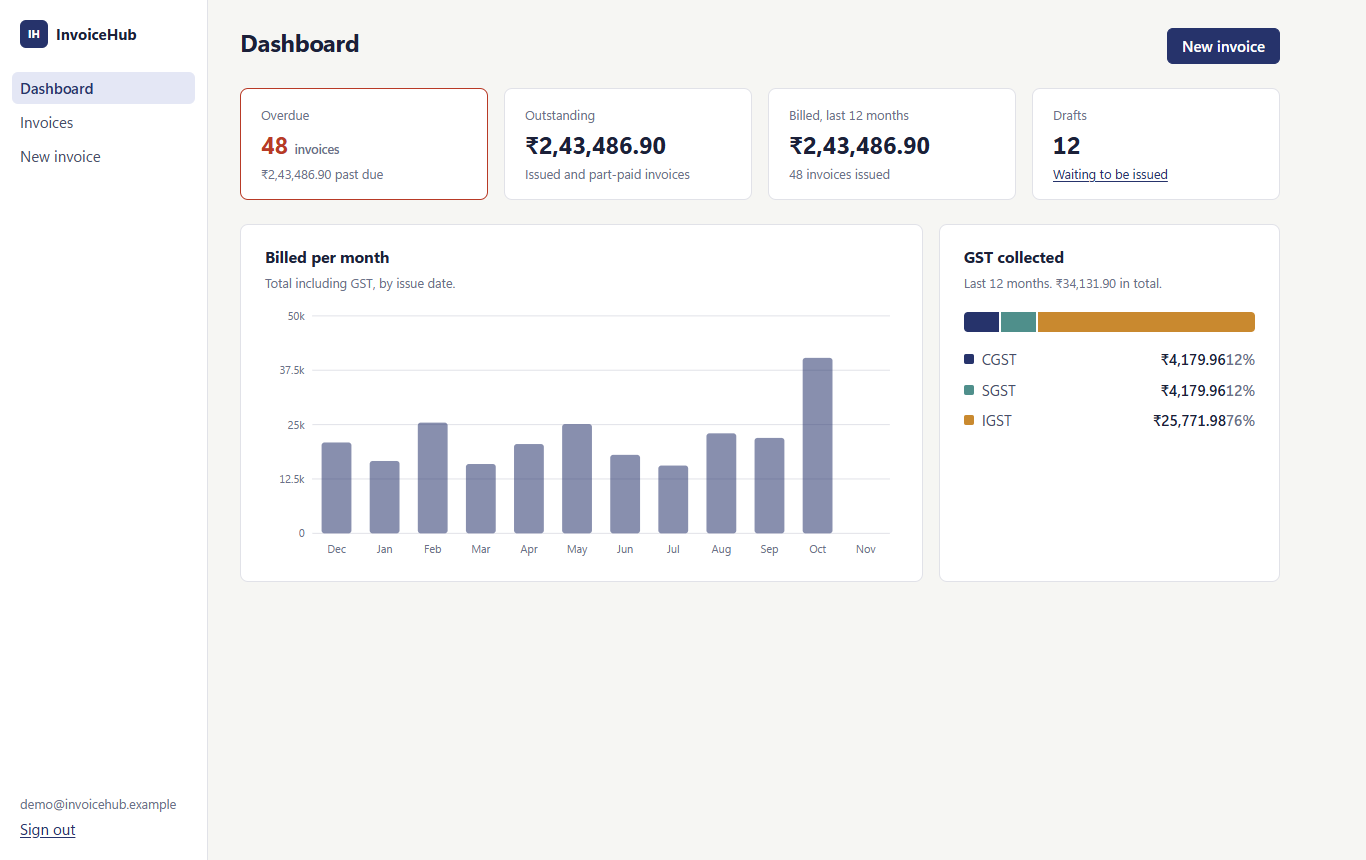
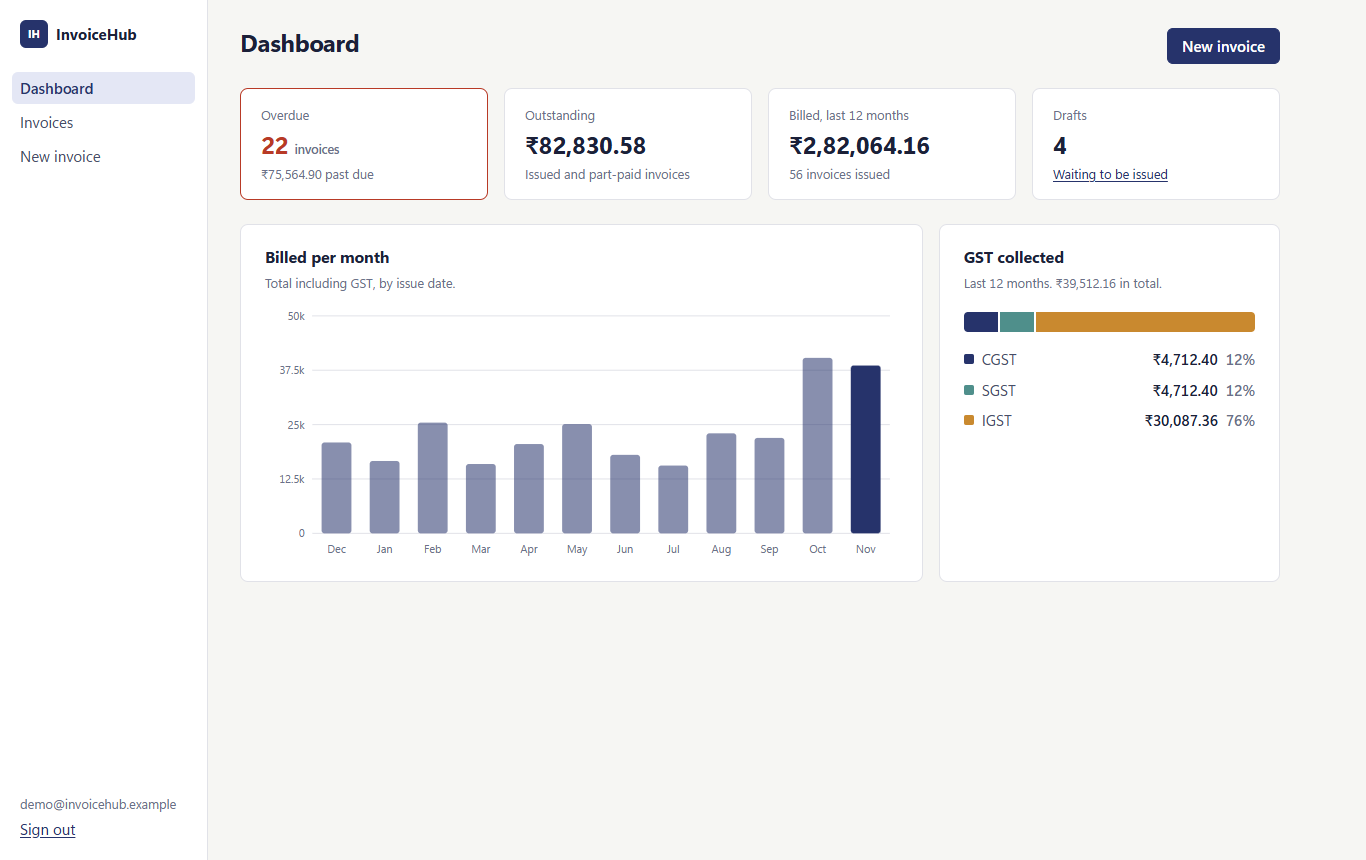
Seed payments via signed webhook, smoke test, web image CI, README UI section, fresh screenshots

diff --git a/tests/InvoiceHub.E2E/WebSmokeTests.cs b/tests/InvoiceHub.E2E/WebSmokeTests.cs
@@ -1,0 +1,55 @@
+using Microsoft.Playwright;
+
+namespace InvoiceHub.E2E;
+
+/// <summary>
+/// Runs only when E2E_WEB_URL is set (for example after "docker compose up"), so a plain
+/// "dotnet test" stays hermetic. Uses the Edge that is installed on the machine, no browser download.
+/// Variables: E2E_WEB_URL, E2E_EMAIL, E2E_PASSWORD (the demo login from .env).
+/// </summary>
+public sealed class E2EFactAttribute : FactAttribute
+{
+    public E2EFactAttribute()
+    {
+        if (string.IsNullOrWhiteSpace(Environment.GetEnvironmentVariable("E2E_WEB_URL")))
+            Skip = "Set E2E_WEB_URL (and E2E_EMAIL, E2E_PASSWORD) to run the browser smoke test.";
+    }
+}
+
+public class WebSmokeTests
+{
+    [E2EFact]
+    public async Task Login_dashboard_invoice_list_and_detail_render_without_console_errors()
+    {
+        var baseUrl = Environment.GetEnvironmentVariable("E2E_WEB_URL")!.TrimEnd('/');
+        var email = Environment.GetEnvironmentVariable("E2E_EMAIL") ?? "demo@invoicehub.example";
+        var password = Environment.GetEnvironmentVariable("E2E_PASSWORD")
+            ?? throw new InvalidOperationException("E2E_PASSWORD is not set.");
+
+        using var playwright = await Playwright.CreateAsync();
+        await using var browser = await playwright.Chromium.LaunchAsync(new() { Channel = "msedge", Headless = true });
+        var page = await browser.NewPageAsync();
+        var errors = new List<string>();
+        page.Console += (_, m) => { if (m.Type == "error") errors.Add(m.Text); };
+        page.PageError += (_, e) => errors.Add(e);
+
+        await page.GotoAsync(baseUrl + "/login");
+        await page.FillAsync("#email", email);
+        await page.FillAsync("#password", password);
+        await page.ClickAsync("button[type=submit]");
+
+        await page.WaitForSelectorAsync("#kpi-overdue-count");
+        Assert.Contains("Dashboard", await page.InnerTextAsync("h1"));
+
+        await page.ClickAsync("text=Invoices");
+        await page.WaitForSelectorAsync("#invoice-table");
+        var rows = await page.Locator("#invoice-table tbody tr").CountAsync();
+        Assert.True(rows > 0, "the invoice list should contain the seeded demo invoices");
+
+        await page.Locator("#invoice-table tbody tr a").First.ClickAsync();
+        await page.WaitForSelectorAsync("#grand-total");
+        Assert.True(await page.Locator("text=Download PDF").IsVisibleAsync());
+
+        Assert.Empty(errors);
+    }
+}

diff --git a/README.md b/README.md
@@ -13,7 +13,8 @@ Multi-tenant GST invoicing REST API built with ASP.NET Core (.NET 8). Businesses
 | Azure DevOps pipeline ([azure-pipelines.yml](azure-pipelines.yml)) | Written. Its steps were rehearsed locally. **It has not yet run on Azure DevOps** |
 | Azure resources ([infra/provision.ps1](infra/provision.ps1)) | Written and syntax-checked. **Not yet run against Azure** |
 | Live deployment | **Not deployed yet.** There is no public URL |
-| Tests | 199 xUnit test methods, 240 test cases with theory data (110 unit, 130 integration). Unit tests use Moq and FluentAssertions |
+| Web UI (Blazor Server, `src/InvoiceHub.Web`) | Built: login, dashboard, invoice list and detail, create invoice, live payment toast |
+| Tests | `dotnet test` on this branch: 331 passed, 1 skipped (122 unit, 154 API integration, 55 UI component tests, 1 browser smoke test that runs only when `E2E_WEB_URL` is set). Unit tests use Moq and FluentAssertions, UI tests use bUnit |
 
 ## Tech stack
 
@@ -53,6 +54,23 @@ Choices worth knowing about:
 
 [docs/sample-invoice.pdf](docs/sample-invoice.pdf) is a sample rendered from made-up data. PDFs are drawn with [QuestPDF](https://www.questpdf.com/), used under its **Community licence** (free for individuals and small organisations; `QuestPDF.Settings.License = LicenseType.Community` is set in `QuestPdfInvoiceRenderer`). It is not MIT, so check its licence terms before using this in a larger company. The rupee amounts print as "Rs" because the built-in PDF fonts have no rupee glyph.
 
+## Web UI
+
+A Blazor Server app (`src/InvoiceHub.Web`) that talks to the API over HTTP with the signed-in user's JWT. Screens: login, dashboard (overdue count and amount, outstanding, billed per month, GST split), invoice list with status, customer and date filters, invoice detail with PDF download, and a create-invoice form with validation. A SignalR connection to the API shows a toast the moment a payment webhook lands.
+
+| Dashboard | Invoices |
+|---|---|
+| ![Dashboard](docs/screenshots/dashboard.png) | ![Invoices](docs/screenshots/invoices.png) |
+| ![Invoice detail](docs/screenshots/invoice-detail.png) | ![Live payment toast](docs/screenshots/toast-payment.png) |
+
+Mobile layout: [docs/screenshots/dashboard-mobile.png](docs/screenshots/dashboard-mobile.png). The screenshots were taken from the compose demo in headless Edge.
+
+Run it: `docker compose up --build`, open http://localhost:8087 and sign in with the demo login below. Browser smoke test against the running stack (uses the Edge installed on your machine):
+
+```bash
+E2E_WEB_URL=http://localhost:8087 E2E_PASSWORD='<DEMO_PASSWORD from .env>' dotnet test tests/InvoiceHub.E2E
+```
+
 ## Run it with one command (Docker)
 
 Needs Docker only (no .NET SDK, no LocalDB, works on Windows, macOS with amd64 emulation, Linux).
@@ -62,8 +80,9 @@ cp .env.example .env        # then edit the secrets if you like
 docker compose up --build
 ```
 
-This starts SQL Server 2022 (`mcr.microsoft.com/mssql/server:2022-latest`), the API (migrations run on start), and a one-shot `seed` service that creates demo data through the public API: 4 customers (one in the seller's state, so CGST+SGST, three in other states, so IGST), 5 products and 60 invoices over about 11 months.
+This starts SQL Server 2022 (`mcr.microsoft.com/mssql/server:2022-latest`), the API (migrations run on start), and a one-shot `seed` service that creates demo data through the public API: 4 customers (one in the seller's state, so CGST+SGST, three in other states, so IGST), 5 products and 60 invoices over about 11 months. Most older invoices are paid through the signed webhook, some are part-paid, the rest are overdue, issued or still drafts, so the dashboard has something to show.
 
+- Web UI: http://localhost:8087 (change with `WEB_PORT`)
 - Swagger UI: http://localhost:8088/swagger (change the port with `API_PORT` in `.env`)
 - Health: http://localhost:8088/health/ready
 - Demo login (demo data only, set in `.env.example`): `demo@invoicehub.example` / `Demo#Pass2026`. Call `POST /api/auth/login`, paste the token into Swagger's Authorize button, then try `GET /api/reports/gst-summary?from=2025-01-01&to=2027-01-01`.
